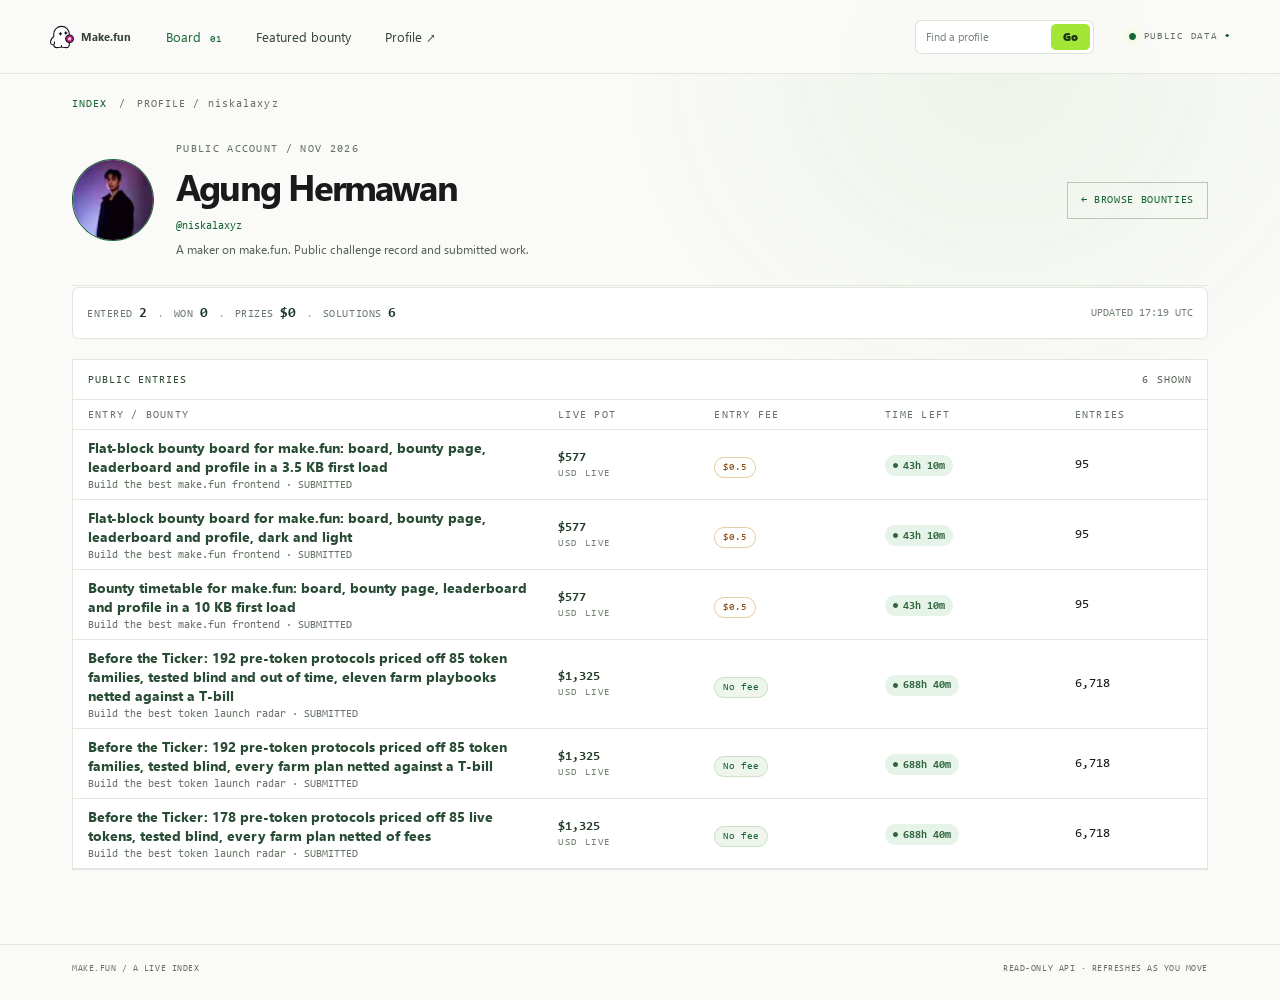
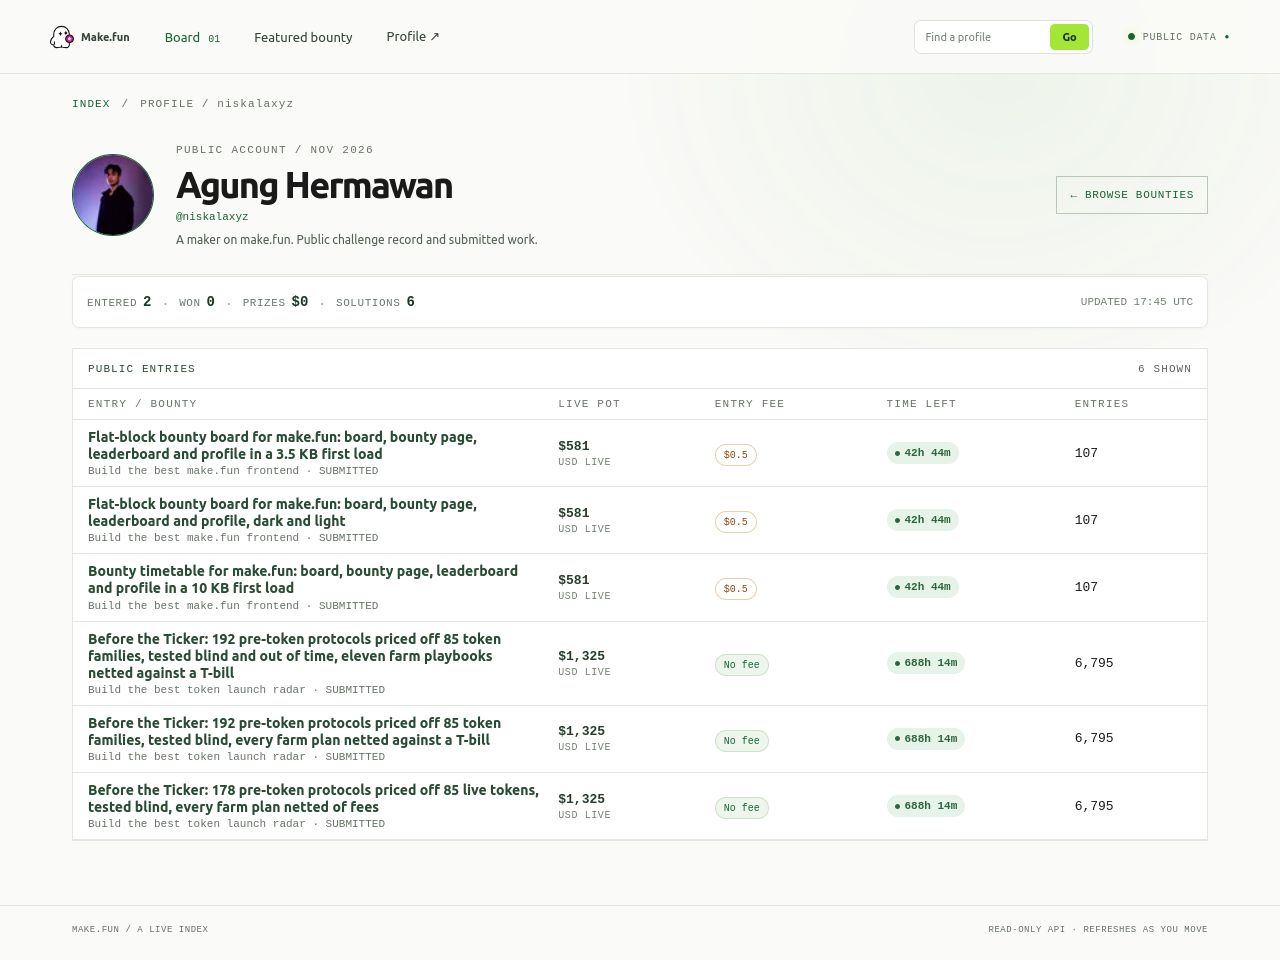
Show resolved bounties in closing soon

diff --git a/app/main.js b/app/main.js
@@ -1,24 +1,26 @@
 import {bounties,bounty,leaderboard,profile} from './api.js';
-window.__shotReady=false;const app=document.querySelector('#app');let all=[],filter='all',query='',page=1,routeToken=0;
+const markShotReady=value=>{document.documentElement.dataset.shotReady=String(value);const script=document.createElement('script');script.textContent=`window.__shotReady=${JSON.stringify(value)};`;document.documentElement.append(script);script.remove();};
+markShotReady(false);const app=document.querySelector('#app');let all=[],filter='all',query='',page=1,routeToken=0;
 const PAGE_SIZE=12;
 const esc=s=>String(s??'').replace(/[&<>"']/g,c=>({'&':'&amp;','<':'&lt;','>':'&gt;','"':'&quot;',"'":'&#39;'}[c]));
 const money=n=>'$'+Number(n||0).toLocaleString('en-US',{maximumFractionDigits:2});
 const date=s=>s?new Date(s).toLocaleString('en-US',{month:'short',day:'numeric',hour:'numeric',minute:'2-digit',timeZone:'UTC',timeZoneName:'short'}):'—';
-function remaining(s){const ms=Date.parse(s)-Date.now();if(ms<=0)return 'CLOSED';const h=Math.floor(ms/3600000),m=Math.floor(ms%3600000/60000);return h?`${h}h ${m}m`:`${Math.max(1,Math.floor(ms/60000))}m`;}
+function remaining(s){const ms=Date.parse(s)-Date.now();if(ms<=0)return 'PAST DEADLINE';const h=Math.floor(ms/3600000),m=Math.floor(ms%3600000/60000);return h?`${h}h ${m}m`:`${Math.max(1,Math.floor(ms/60000))}m`;}
 function timeTone(s){const ms=Date.parse(s)-Date.now();return ms<=0?'closed':ms<3600000?'urgent':ms<86400000?'soon':'later';}
-const live=b=>Number(b.potUsd??b.rewardAmount??0),fee=b=>b.entryFeeUsd==null?'Free':money(b.entryFeeUsd),isOpen=b=>Date.parse(b.deadline)>Date.now();
+const live=b=>Number(b.potUsd??b.rewardAmount??0),fee=b=>b.entryFeeUsd==null?'Free':money(b.entryFeeUsd),isResolved=b=>b.status==='resolved',isOpen=b=>b.status==='open';
 function profileLink(handle){return `#/profile/${encodeURIComponent(handle||'niskalaxyz')}`;}
 function breadcrumb(label){return `<div class="crumb"><a href="#/">INDEX</a><span>/</span><span>${esc(label)}</span></div>`;}
 function setTitle(t){document.title=t+' — Make.fun';}
 function renderBoard(){
-  const nowOpen=all.filter(isOpen),soon=nowOpen.filter(b=>Date.parse(b.deadline)-Date.now()<48*3600000),pot=nowOpen.reduce((n,b)=>n+live(b),0);
-  const filtered=all.filter(b=>filter==='soon'?isOpen(b)&&Date.parse(b.deadline)-Date.now()<72*3600000:filter==='free'?b.entryFeeUsd==null||Number(b.entryFeeUsd)===0:true).filter(b=>`${b.title} ${b.slug} ${b.sponsor?.name||''} ${b.category||''}`.toLowerCase().includes(query.toLowerCase()));
+  const nowOpen=all.filter(isOpen),soon=nowOpen.filter(b=>Date.parse(b.deadline)>=Date.now()&&Date.parse(b.deadline)-Date.now()<48*3600000),pot=nowOpen.reduce((n,b)=>n+live(b),0);
+  const filtered=all.filter(b=>filter==='soon'?true:filter==='free'?b.entryFeeUsd==null||Number(b.entryFeeUsd)===0:true).filter(b=>`${b.title} ${b.slug} ${b.sponsor?.name||''} ${b.category||''}`.toLowerCase().includes(query.toLowerCase()));
+  if(filter==='soon')filtered.sort((a,b)=>Date.parse(a.deadline)-Date.parse(b.deadline));
   const pages=Math.max(1,Math.ceil(filtered.length/PAGE_SIZE));page=Math.min(page,pages);const rows=filtered.slice((page-1)*PAGE_SIZE,page*PAGE_SIZE);
   app.innerHTML=`<section class="hero"><div class="eyebrow"><span>THE LIVE CHALLENGE INDEX</span><span>FIELD REPORT / ${new Date().toISOString().slice(0,16).replace('T',' ')} UTC</span></div><h1>Find a challenge.<br><em>Make your mark.</em></h1><p>Open calls, real prize pools, and the clock that matters. Pick a lane and get to work.</p><div class="hero-stamp"><span>№</span><strong>01</strong><small>LIVE<br>BOARD</small></div></section>
   <section class="stats"><div><small>ACCEPTING ENTRIES</small><strong>${nowOpen.length.toString().padStart(2,'0')}</strong><span>active deadlines</span></div><div><small>LIVE POT / USD</small><strong>${money(pot)}</strong><span>across open calls</span></div><div><small>CLOSING IN 48H</small><strong>${soon.length.toString().padStart(2,'0')}</strong><span>make it count</span></div><div class="stats-note"><span class="signal"></span><b>LIVE INDEX</b><small>Public API · GET only</small></div></section>
   <section class="board"><div class="section-head"><div><div class="eyebrow">01 / OPPORTUNITY REGISTER</div><h2>Open bounties <sup>${filtered.length}</sup></h2></div><label class="search"><span class="search-icon" aria-hidden="true"></span><input id="search" type="search" placeholder="Search title, sponsor, category…" value="${esc(query)}"><kbd> / </kbd></label></div>
   <div class="controls"><div class="filters"><button data-filter="all" class="${filter==='all'?'active':''}">All bounties <i>${all.length}</i></button><button data-filter="soon" class="${filter==='soon'?'active':''}">Closing soon</button><button data-filter="free" class="${filter==='free'?'active':''}">Free entry</button></div><span class="sort-note">SORTED BY DEADLINE <span>↓</span></span></div>
-  <div class="table-wrap"><table><thead><tr><th>BOUNTY / SPONSOR</th><th>LIVE POT</th><th>ENTRY FEE</th><th>TIME LEFT</th><th>ENTRIES</th><th></th></tr></thead><tbody>${rows.map((b,i)=>`<tr><td class="name-cell"><span class="rowno">${String((page-1)*PAGE_SIZE+i+1).padStart(2,'0')}</span><span><a class="bounty-name" href="#/bounty/${encodeURIComponent(b.slug)}">${esc(b.title)}</a><small>${esc(b.sponsor?.name||'make.fun')} <span>·</span> ${esc(b.category||'OPEN CALL')}</small></span></td><td class="pot">${money(live(b))}<small>USD LIVE</small></td><td><span class="fee ${fee(b)==='Free'?'free':''}">${fee(b)}</span></td><td><span class="time ${isOpen(b)?'':'closed'}">${remaining(b.deadline)}</span><small class="deadline">${date(b.deadline)}</small></td><td class="entries">${Number(b.submissionCount||0).toLocaleString()}</td><td><a class="arrow" href="#/bounty/${encodeURIComponent(b.slug)}">↗</a></td></tr>`).join('')||'<tr><td colspan="6" class="empty">No calls match that search.</td></tr>'}</tbody></table></div>
+  <div class="table-wrap"><table><thead><tr><th>BOUNTY / SPONSOR</th><th>LIVE POT</th><th>ENTRY FEE</th><th>TIME LEFT</th><th>ENTRIES</th><th></th></tr></thead><tbody>${rows.map((b,i)=>`<tr class="${isResolved(b)?'resolved-row':''}"><td class="name-cell"><span class="rowno">${String((page-1)*PAGE_SIZE+i+1).padStart(2,'0')}</span><span><a class="bounty-name" href="#/bounty/${encodeURIComponent(b.slug)}">${esc(b.title)}</a><small>${esc(b.sponsor?.name||'make.fun')} <span>·</span> ${esc(b.category||'OPEN CALL')}</small></span></td><td class="pot">${money(live(b))}<small>USD LIVE</small></td><td><span class="fee ${fee(b)==='Free'?'free':''}">${fee(b)}</span></td><td>${isResolved(b)?'<span class="resolved-pill">SELESAI</span>':`<span class="time ${isOpen(b)?'':'closed'}">${remaining(b.deadline)}</span>`}<small class="deadline">${date(b.deadline)}</small></td><td class="entries">${Number(b.submissionCount||0).toLocaleString()}</td><td><a class="arrow" href="#/bounty/${encodeURIComponent(b.slug)}">↗</a></td></tr>`).join('')||'<tr><td colspan="6" class="empty">No calls match that search.</td></tr>'}</tbody></table></div>
   <div class="table-foot"><span>SHOWING <b>${filtered.length?((page-1)*PAGE_SIZE+1):0}–${Math.min(page*PAGE_SIZE,filtered.length)}</b> OF <b>${filtered.length}</b> · DEADLINE IS THE ENTRY CUTOFF</span><div class="pager"><button id="prev" ${page<=1?'disabled':''}>←</button><span>${String(page).padStart(2,'0')} / ${String(pages).padStart(2,'0')}</span><button id="next" ${page>=pages?'disabled':''}>→</button></div></div></section>`;
   app.querySelectorAll('[data-filter]').forEach(b=>b.onclick=()=>{filter=b.dataset.filter;page=1;renderBoard();});
   app.querySelector('#search').oninput=e=>{query=e.target.value;page=1;renderBoard();const el=app.querySelector('#search');el.focus();el.setSelectionRange(query.length,query.length);};
@@ -27,9 +29,9 @@ function renderBoard(){
 function descRules(text){const lines=String(text||'No description provided.').split('\n');return esc(lines.join('\n')).replace(/^## (.*)$/gm,'<strong class="md-head">$1</strong>').replace(/\*\*(.*?)\*\*/g,'<b>$1</b>').replace(/\n/g,'<br>');}
 function rewards(b){const arr=b.rewardsNow||b.rewards||[];if(Array.isArray(arr))return arr.map((r,i)=>({place:r.place||i+1,amount:Number(r.amountUsd??r.amount??r.baseUsd??0)}));return Object.entries(arr).map(([place,amount])=>({place,amount:Number(amount)}));}
 function detail(slug,data){
-  const b=data.competition||data,award=rewards(b),pot=live(b),max=Math.max(...award.map(x=>x.amount),1);const ended=!isOpen(b);app.innerHTML=`${breadcrumb('BOUNTY / '+b.slug)}<section class="detail-top"><div><div class="eyebrow">${esc(b.category||'MAKE.FUN BOUNTY')} <span>·</span> SPONSORED BY ${esc(b.sponsor?.name||'MAKE.FUN')}</div><h1>${esc(b.title)}</h1><p class="summary">${esc(b.summary||'A public challenge with a live prize pool and a clear deadline.')}</p><div class="detail-actions"><a class="primary" href="#/bounty/${encodeURIComponent(slug)}/leaderboard">VIEW LEADERBOARD <span>↗</span></a><span class="status ${ended?'ended':''}"><i></i>${ended?'ENTRY WINDOW CLOSED':'TAKING ENTRIES'}</span></div></div><aside class="pot-card"><small>CURRENT LIVE POT</small><strong>${money(pot)}</strong><span>USD <b>·</b> ${Number(b.submissionCount||0).toLocaleString()} entries</span><div class="pot-rule"><i style="width:${Math.min(100,pot/Math.max(Number(b.rewardAmount||pot),1)*100)}%"></i></div><div class="pot-foot"><span>BASE ${money(b.rewardAmount)}</span><span>FEES ${money(b.entryFeesUsd)}</span></div></aside></section>
+  const b=data.competition||data,award=rewards(b),pot=live(b),max=Math.max(...award.map(x=>x.amount),1),resolved=isResolved(b);app.innerHTML=`${breadcrumb('BOUNTY / '+b.slug)}<section class="detail-top"><div><div class="eyebrow">${esc(b.category||'MAKE.FUN BOUNTY')} <span>·</span> SPONSORED BY ${esc(b.sponsor?.name||'MAKE.FUN')}</div><h1>${esc(b.title)}</h1><p class="summary">${esc(b.summary||'A public challenge with a live prize pool and a clear deadline.')}</p><div class="detail-actions"><a class="primary" href="#/bounty/${encodeURIComponent(slug)}/leaderboard">VIEW LEADERBOARD <span>↗</span></a>${resolved?'<span class="resolved-pill">SELESAI</span>':`<span class="status ${isOpen(b)?'':'ended'}"><i></i>${isOpen(b)?'TAKING ENTRIES':'ENTRY WINDOW CLOSED'}</span>`}</div></div><aside class="pot-card"><small>CURRENT LIVE POT</small><strong>${money(pot)}</strong><span>USD <b>·</b> ${Number(b.submissionCount||0).toLocaleString()} entries</span><div class="pot-rule"><i style="width:${Math.min(100,pot/Math.max(Number(b.rewardAmount||pot),1)*100)}%"></i></div><div class="pot-foot"><span>BASE ${money(b.rewardAmount)}</span><span>FEES ${money(b.entryFeesUsd)}</span></div></aside></section>
 <section class="detail-grid"><div class="detail-main"><div class="panel"><div class="panel-head"><span>02 / THE BRIEF</span><span>${esc(b.slug)}</span></div><div class="description">${descRules(b.description)}</div></div><div class="panel"><div class="panel-head"><span>03 / PAYOUT CURVE</span><span>LIVE POT · ${money(pot)}</span></div><div class="reward-list">${award.map((r,i)=>`<div class="reward-row"><b class="place">${String(r.place).padStart(2,'0')}</b><span class="reward-label">${Number(r.place)===1?'1ST PLACE':`${r.place}${Number(r.place)===2?'ND':Number(r.place)===3?'RD':'TH'} PLACE`}</span><span class="bar"><i style="width:${Math.max(4,r.amount/max*100)}%"></i></span><strong>${money(r.amount)}</strong></div>`).join('')}</div></div></div>
-<aside class="side-col"><div class="panel facts"><div class="panel-head"><span>ENTRY WINDOW</span><span>UTC</span></div><div class="fact"><small>TIME LEFT</small><strong class="${ended?'closed':''}">${remaining(b.deadline)}</strong></div><div class="fact"><small>DEADLINE</small><strong>${date(b.deadline)}</strong></div><div class="fact"><small>ENTRY FEE</small><strong>${b.entryFeeUsd==null?'Free':money(b.entryFeeUsd)}</strong></div><div class="fact"><small>ENTRIES</small><strong>${Number(b.submissionCount||0).toLocaleString()}</strong></div><div class="fact"><small>STATUS</small><strong>${esc(b.status||'Open')}</strong></div></div><div class="panel links"><div class="panel-head"><span>EXPLORE THIS CALL</span><span>↗</span></div><a href="#/bounty/${encodeURIComponent(slug)}/leaderboard">Leaderboard <b>↗</b></a><a href="#/profile/niskalaxyz">Public profile <b>↗</b></a><a href="#/">All open bounties <b>↗</b></a></div></aside></section>`;setTitle(b.title);}
+<aside class="side-col"><div class="panel facts"><div class="panel-head"><span>ENTRY WINDOW</span><span>UTC</span></div><div class="fact"><small>TIME LEFT</small><strong class="${resolved?'resolved-text':''}">${resolved?'Selesai':remaining(b.deadline)}</strong></div><div class="fact"><small>DEADLINE</small><strong>${date(b.deadline)}</strong></div><div class="fact"><small>ENTRY FEE</small><strong>${b.entryFeeUsd==null?'Free':money(b.entryFeeUsd)}</strong></div><div class="fact"><small>ENTRIES</small><strong>${Number(b.submissionCount||0).toLocaleString()}</strong></div><div class="fact"><small>STATUS</small><strong class="${resolved?'resolved-text':''}">${esc(b.status||'Open')}</strong></div></div><div class="panel links"><div class="panel-head"><span>EXPLORE THIS CALL</span><span>↗</span></div><a href="#/bounty/${encodeURIComponent(slug)}/leaderboard">Leaderboard <b>↗</b></a><a href="#/profile/niskalaxyz">Public profile <b>↗</b></a><a href="#/">All open bounties <b>↗</b></a></div></aside></section>`;setTitle(b.title);}
 function leaderboardView(slug,data,b){
   const rows=data.entries||data.rows||[],name=b?.title||slug;app.innerHTML=`${breadcrumb('LEADERBOARD / '+slug)}<section class="surface-heading"><div><div class="eyebrow">03 / RANKINGS · ${esc(data.view||'PERFORMANCE')}</div><h1>${esc(name)}</h1><p>Live standings · ${Number(b?.submissionCount||rows.length).toLocaleString()} entries · pool ${money(live(b||{}))}</p></div><a class="outline" href="#/bounty/${encodeURIComponent(slug)}">← BOUNTY BRIEF</a></section><div class="table-wrap ranked"><table><thead><tr><th>RANK</th><th>ENTRY / BUILDER</th><th>${esc(data.columns?.find(c=>c.key===data.rank_key)?.title||'SCORE')}</th><th>PRIZE</th><th>ENTRY</th></tr></thead><tbody>${rows.map((r,i)=>{const h=r.handle||r.owner?.handle||r.account?.handle||'entrant';const metric=data.rank_key||Object.keys(r.display||{})[0];const score=r.display?.[metric]??r.values?.[metric]??r.score?.display??'—';const prize=(b?.rewardsNow||[]).find(x=>Number(x.place)===Number(r.prize_rank))?.amountUsd??0;return `<tr><td class="rank-num">${r.rank?.performance||r.rank||i+1}</td><td><a class="bounty-name" href="${profileLink(h)}">${esc(r.title||r.name||h)}</a><small><a href="${profileLink(h)}">@${esc(h)}</a>${r.baseline?' · '+esc(r.baseline):''}</small></td><td class="score">${esc(typeof score==='object'?JSON.stringify(score):score)}</td><td class="pot">${typeof prize==='number'||!isNaN(Number(prize))?money(prize):esc(prize)}</td><td><a class="arrow" href="#/bounty/${encodeURIComponent(slug)}">↗</a></td></tr>`;}).join('')||`<tr><td colspan="5" class="empty">${data.scores_visible===false?'Placements are currently held. Check back after the scoring phase.':'No ranked entries yet.'}</td></tr>`}</tbody></table></div><div class="table-foot"><span>PUBLIC STANDINGS · API VIEW ${esc(data.view||'PERFORMANCE')}</span><a href="#/profile/niskalaxyz">OPEN A PROFILE ↗</a></div>`;setTitle('Leaderboard · '+name);}
 function profileView(data,handle){
@@ -38,11 +40,11 @@ function profileView(data,handle){
   app.innerHTML=`${breadcrumb('PROFILE / '+handle)}<section class="profile-hero"><div class="avatar">${avatar?`<img crossorigin="anonymous" src="${esc(avatar.startsWith('/')?'https://make.fun'+avatar:avatar)}" alt="">`:'✳'}</div><div class="profile-title"><div class="eyebrow">PUBLIC ACCOUNT / ${esc(p.joined_at?new Date(p.joined_at).toLocaleDateString('en-US',{month:'short',year:'numeric'}):'MAKE.FUN')}</div><h1>${esc(p.display_name||p.name||handle)}</h1><a class="handle" href="#/profile/${encodeURIComponent(handle)}">@${esc(p.handle||handle)}</a><p>${esc(p.bio||'A maker on make.fun. Public challenge record and submitted work.')}</p></div><a class="outline" href="#/">← BROWSE BOUNTIES</a></section>
   <section class="profile-summary" aria-label="Profile summary"><div><small>ENTERED</small><strong>${entered.toLocaleString()}</strong></div><i>·</i><div><small>WON</small><strong>${won.toLocaleString()}</strong></div><i>·</i><div><small>PRIZES</small><strong>${prizes}</strong></div><i>·</i><div><small>SOLUTIONS</small><strong>${entries.length.toLocaleString()}</strong></div><span class="profile-updated">UPDATED ${new Date(updated).toLocaleTimeString('en-GB',{hour:'2-digit',minute:'2-digit',timeZone:'UTC'})} UTC</span></section>
   <section class="panel profile-entries"><div class="panel-head"><span>PUBLIC ENTRIES</span><span>${entries.length} SHOWN</span></div><div class="table-wrap"><table class="profile-table"><thead><tr><th>ENTRY / BOUNTY</th><th>LIVE POT</th><th>ENTRY FEE</th><th>TIME LEFT</th><th>ENTRIES</th></tr></thead><tbody>${entries.map(e=>{const competition=e.competition||{},slug=competition.slug||e.competition_slug||'makefun-frontend-01',b=competitions.get(slug)||competition,deadline=b.deadline;const amount=b.potUsd??b.pot_usd??b.rewardAmount??b.reward_usd??0;const entryFee=b.entryFeeUsd??b.entry_fee_usd;const count=b.submissionCount??b.submission_count??b.entries_count;return `<tr><td class="profile-entry-name"><a class="bounty-name" href="#/bounty/${encodeURIComponent(slug)}">${esc(e.title||e.name||'Competition entry')}</a><small>${esc(b.title||slug)} · ${esc(e.placed?'PLACED':'SUBMITTED')}</small></td><td class="pot">${money(amount)}<small>USD LIVE</small></td><td><span class="fee ${entryFee==null||Number(entryFee)===0?'free':''}">${entryFee==null||Number(entryFee)===0?'No fee':money(entryFee)}</span></td><td><span class="time-pill ${timeTone(deadline)}">${remaining(deadline)}</span></td><td class="entries">${count==null?'—':Number(count).toLocaleString()}</td></tr>`;}).join('')||'<tr><td colspan="5" class="empty">No public solutions are listed on this profile yet.</td></tr>'}</tbody></table></div></section>`;setTitle('Profile · @'+(p.handle||handle));}
-async function route(){const token=++routeToken;window.__shotReady=false;const parts=location.hash.replace(/^#\/?/,'').split('/').filter(Boolean);app.innerHTML='<div class="loading">SYNCING THE FIELD…</div>';try{
+async function route(){const token=++routeToken;markShotReady(false);const parts=location.hash.replace(/^#\/?/,'').split('/').filter(Boolean);app.innerHTML='<div class="loading">SYNCING THE FIELD…</div>';try{
  if(!parts.length){all=await bounties();if(token!==routeToken)return;all.sort((a,b)=>{const da=Date.parse(a.deadline),db=Date.parse(b.deadline),fa=da>Date.now(),fb=db>Date.now();return fa!==fb?(fa?-1:1):fa?da-db:db-da;});renderBoard();}
  else if(parts[0]==='bounty'&&parts[1]){const slug=decodeURIComponent(parts[1]);if(parts[2]==='leaderboard'){const [l,b]=await Promise.all([leaderboard(slug),bounty(slug)]);if(token!==routeToken)return;leaderboardView(slug,l,b.competition||b);}else{const b=await bounty(slug);if(token!==routeToken)return;detail(slug,b);}}
  else if(parts[0]==='profile'&&parts[1]){const [p,competitions]=await Promise.all([profile(decodeURIComponent(parts[1])),bounties()]);if(token!==routeToken)return;profileView({...p,competitions},decodeURIComponent(parts[1]));}
  else{location.hash='#/';return;}
- }catch(e){if(token!==routeToken)return;app.innerHTML=`<div class="error"><span>NETWORK NOTE</span><h1>The field is temporarily quiet.</h1><p>${esc(e.message)}. Please retry in a moment.</p><a class="primary" href="#/">BACK TO INDEX ↗</a></div>`;}if(token===routeToken)window.__shotReady=true;}
+ }catch(e){if(token!==routeToken)return;app.innerHTML=`<div class="error"><span>NETWORK NOTE</span><h1>The field is temporarily quiet.</h1><p>${esc(e.message)}. Please retry in a moment.</p><a class="primary" href="#/">BACK TO INDEX ↗</a></div>`;}if(token===routeToken)markShotReady(true);}
 document.querySelector('#profile-find').addEventListener('submit',e=>{e.preventDefault();const handle=document.querySelector('#profile-query').value.trim().replace(/^@/,'');if(handle)location.hash=`#/profile/${encodeURIComponent(handle)}`;});
 window.addEventListener('hashchange',route);document.addEventListener('keydown',e=>{if(e.key==='/'&&!/INPUT|TEXTAREA/.test(document.activeElement.tagName)){e.preventDefault();document.querySelector('#search')?.focus();}});route();

diff --git a/app/style.css b/app/style.css
@@ -84,6 +84,9 @@ footer{color:#687367;border-color:#e3e7df}
 .time-pill.later{color:#2e653d;background:#e6f3e8}
 .time-pill.closed{color:#69736a;background:#edf0ed}
 .time-pill:before{content:'';width:5px;height:5px;border-radius:50%;margin-right:5px;background:currentColor}
+.resolved-pill{display:inline-flex;align-items:center;border:1px solid #e5aaa5;border-radius:999px;background:#fdecea;color:#b42318;padding:4px 9px;font:800 11px var(--mono);letter-spacing:.035em;white-space:nowrap}
+.resolved-row{box-shadow:inset 3px 0 #c62828}
+.resolved-text{color:#b42318!important}
 @media(max-width:980px){.top{gap:18px}.top nav{gap:17px}.profile-find input{width:105px}.live{font-size:0;gap:0}.live span{display:none}}
 @media(max-width:760px){.top{height:auto;min-height:82px;padding:9px 13px;display:grid;grid-template-columns:1fr auto;grid-template-areas:'brand live' 'nav find';gap:8px 10px}.header-brands{grid-area:brand}.top nav{grid-area:nav;gap:11px;font-size:10px;flex:none}.top nav a:nth-child(2){display:none}.top nav b{display:none}.profile-find{grid-area:find;height:32px}.profile-find input{width:95px;font-size:10px}.profile-find button{height:24px;padding:0 9px}.live{grid-area:live}.profile-summary{gap:7px;padding:9px 8px;flex-wrap:wrap}.profile-summary small{font-size:8px}.profile-summary strong{font-size:11px}.profile-summary>i{font-size:11px}.profile-updated{font-size:8px;margin-left:0;width:100%;text-align:right}.profile-table{min-width:640px}}
 

diff --git a/app/api.js b/app/api.js
@@ -17,9 +17,14 @@ export async function get(path){
   }
 }
 export async function bounties(){
-  let cursor='',all=[],pages=0;
-  do{const q=new URLSearchParams({status:'open',activity:'times',limit:'100'});if(cursor)q.set('cursor',cursor);const data=await get('/competitions?'+q);all.push(...(data.items||[]));cursor=data.next_cursor||'';pages++;}while(cursor&&pages<8);
-  return all;
+  async function byStatus(status){
+    let cursor='',all=[],pages=0;
+    do{const q=new URLSearchParams({status,activity:'times',limit:'100'});if(cursor)q.set('cursor',cursor);const data=await get('/competitions?'+q);all.push(...(data.items||[]));cursor=data.next_cursor||'';pages++;}while(cursor&&pages<8);
+    return all;
+  }
+  const [open,resolved]=await Promise.allSettled([byStatus('open'),byStatus('resolved')]);
+  if(open.status==='rejected'&&resolved.status==='rejected')throw open.reason;
+  return [...(open.status==='fulfilled'?open.value:[]),...(resolved.status==='fulfilled'?resolved.value:[])];
 }
 export const bounty=slug=>get('/competitions/'+encodeURIComponent(slug)+'?submissions=summary');
 export const leaderboard=slug=>get('/competitions/'+encodeURIComponent(slug)+'/leaderboard?rows=first');
